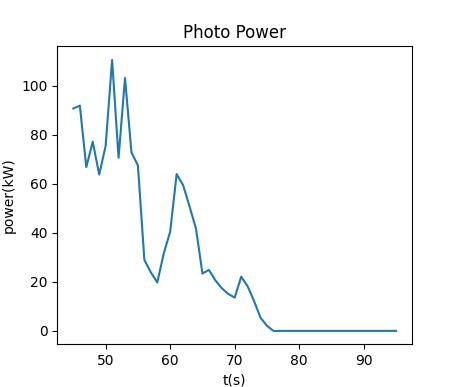
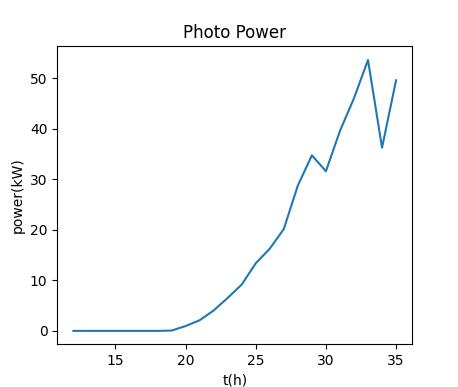
坐标x轴的单位统一成了h，现在刚开始时运行不会出错了

diff --git a/Solar_System/solar.py b/Solar_System/solar.py
@@ -71,9 +71,9 @@ class Solar_Ui():
         df = pd.read_sql_query(query, conn)
         dt = int(time.time() * 10 % 60)
         ax.set_title("Photo Power")
-        ax.set_xlabel("t(s)")
+        ax.set_xlabel("t(h)")
         ax.set_ylabel("power(kW)")
-        ax.plot(df["photokW"][0 + dt:60 + dt])
+        ax.plot(df["photokW"][0 + dt:24 + dt])
         plt.savefig(self.path + "pictures/photo_pic1.jpg")
         plt.close()
 
@@ -84,7 +84,7 @@ class Solar_Ui():
         query = "SELECT * FROM dataTable"
         df = pd.read_sql_query(query, conn)
         dt = int(time.time() * 10 % 60)
-        ax.plot(df["sell_price"][0 + dt:60 + dt])
+        ax.plot(df["sell_price"][0 + dt:24 + dt])
         ax.set_xlabel("t(h)")
         ax.set_ylabel("price(CNY)")
         plt.savefig(self.path + "pictures/photo_pic2.jpg")

diff --git a/Wind_System/wind.py b/Wind_System/wind.py
@@ -70,7 +70,7 @@ class Wind_Ui():
         query = "SELECT * FROM dataTable"
         df = pd.read_sql_query(query, conn)
         dt = int(time.time() * 10 % 60)
-        ax.plot(df["windkW"][0 + dt:60 + dt])
+        ax.plot(df["windkW"][0 + dt:24 + dt])
         ax.set_title("Wind Power")
         ax.set_xlabel("t(s)")
         ax.set_ylabel("power(kW)")
@@ -84,7 +84,7 @@ class Wind_Ui():
         query = "SELECT * FROM dataTable"
         df = pd.read_sql_query(query, conn)
         dt = int(time.time() * 10 % 60)
-        ax.plot(df["sell_price"][0 + dt:60 + dt])
+        ax.plot(df["sell_price"][0 + dt:24 + dt])
         ax.set_title("Sell Price")
         ax.set_xlabel("t(s)")
         ax.set_ylabel("price(CNY) ")
